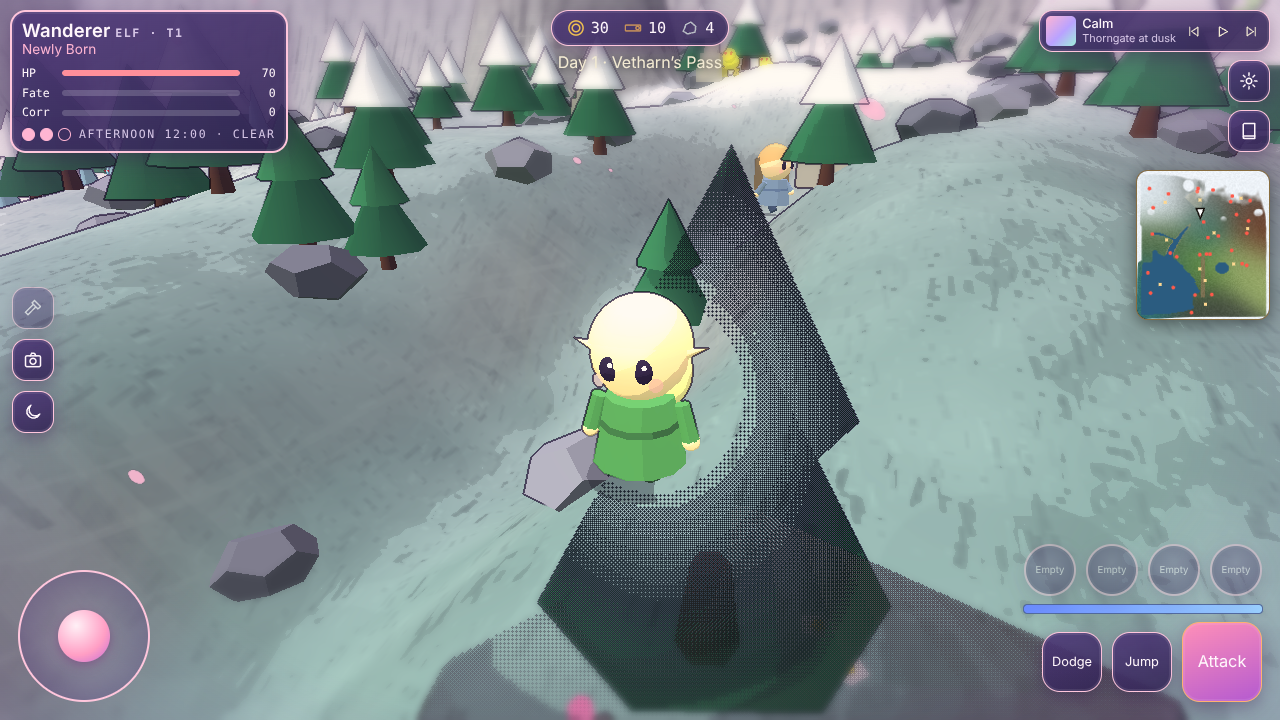
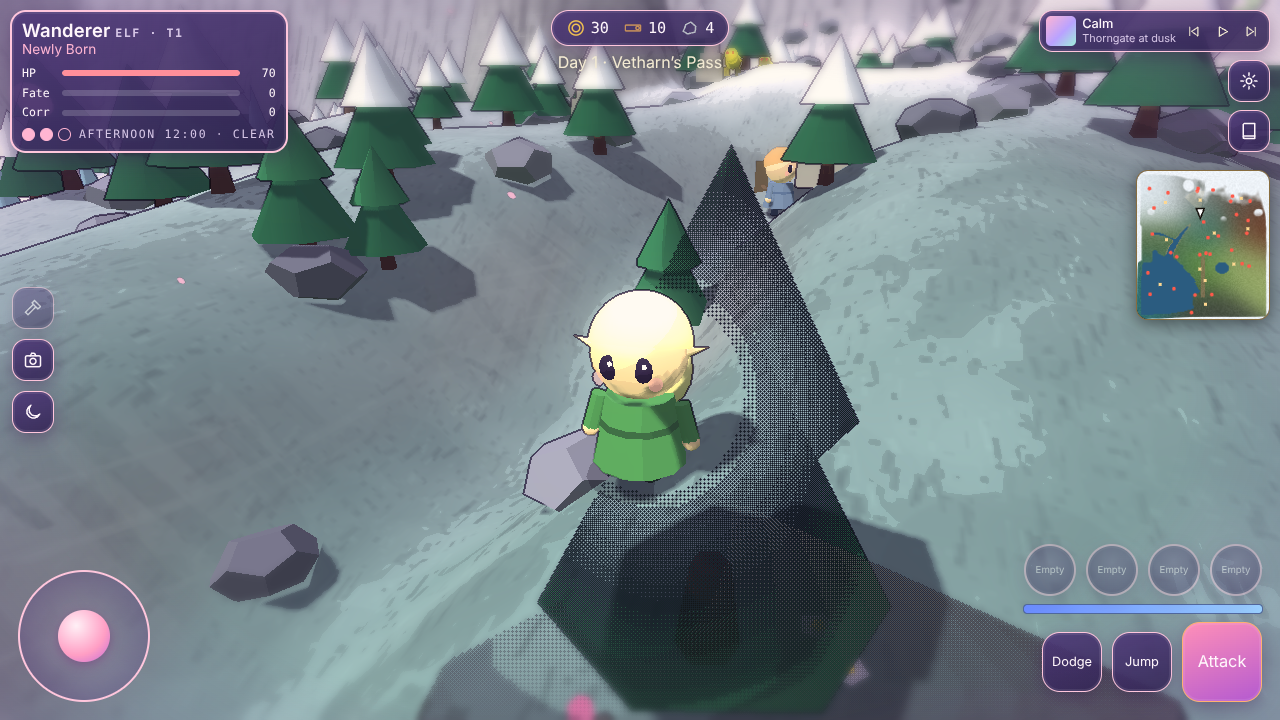
feat(art): soft sun shadows and adaptive resolution for the Spring style
Applies two patterns from the gamedev-skills/awesome-gamedev-agent-skills
three.js skills, adapted to three.js r151:
- threejs-materials-lighting: shadow map, castShadow/receiveShadow, a tight
  orthographic shadow box that follows the player (texel-snapped). Off on
  the low tier; trees and rocks cast only on high.
- threejs-scene-setup: adaptive pixel ratio stepping by 0.25 with a floor,
  cooldown and separate drop/raise thresholds.

Design: ERANDEL_ART_BIBLE.md section 19. Evidence: production/qa/evidence/spring-style/.

Claude-Session: https://claude.ai/code/session_01C2QRsG5r5FsrWkrkJ1Wjtd

diff --git a/src/index.html b/src/index.html
@@ -2345,13 +2345,15 @@ function springInit(){
  const pg=new THREE.BufferGeometry();pg.setAttribute('position',new THREE.BufferAttribute(pos,3));
  SP.petals=new THREE.Points(pg,new THREE.PointsMaterial({map:petalTex(),color:'#ffc4da',size:.32,transparent:true,opacity:.85,depthWrite:false,alphaTest:.1}));SP.petals.frustumCulled=false;scene.add(SP.petals);
  SP.seed=pos.slice();
+ springShadowsInit();
 }
 /** Per-frame spring update: dome colour, clouds, petals. nf = night factor 0..1. */
 function springTick(dt,t,nf){
- const w=W3,SP=w&&w.spring;if(!SP)return;const cp=w.camera.position,night=Math.min(1,nf);
+ adaptiveRes();
+ const w=W3,SP=w&&w.spring;if(!SP)return;springShadowTick(dt);const cp=w.camera.position,night=Math.min(1,nf);
  SP.dome.position.copy(cp);SP.dome.material.uniforms.uH.value.copy(w.scene.fog.color);SP.dome.material.uniforms.uNight.value=night;
  SP.clouds.forEach(o=>{o.a+=o.v*dt;const R=300;o.s.position.set(cp.x+Math.cos(o.a)*R,cp.y+Math.sin(o.e)*R*.6+10,cp.z+Math.sin(o.a)*R);o.s.material.opacity=.85-.6*night;o.s.material.color.setRGB(1-.35*night,1-.38*night,1-.2*night);});
- const P=SP.petals,a=P.geometry.attributes.position.array,s=SP.seed,tg=(S&&w.player)?w.player:{x:cp.x,z:cp.z},by=groundY(tg.x,tg.z);
+ const P=SP.petals,a=P.geometry.attributes.position.array,s=SP.seed,tg=(S&&w.player)?w.player:{x:cp.x,z:cp.z},by=S?groundY(tg.x,tg.z):heightAt(tg.x,tg.z);
  for(let i=0;i<a.length;i+=3){
   const k=i*.37,fx=s[i]+Math.sin(t*.35+k)*2+t*.9,fy=s[i+1]-t*.55,fz=s[i+2]+Math.cos(t*.3+k)*2+t*.4;
   const wr=(v)=>((v%36)+54)%36-18;a[i]=tg.x+wr(fx);a[i+1]=by+2+(((fy%14)+21)%14)-1;a[i+2]=tg.z+wr(fz);
@@ -2389,6 +2391,60 @@ function springComposer(c,w){
  p.uniforms.uNear.value=w.camera.near;p.uniforms.uFar.value=w.camera.far;
  const base=p.render;p.render=function(r,wb,rb){this.uniforms.tDepth.value=rb.depthTexture||null;if(!rb.depthTexture)this.uniforms.uInk.value=0;this.uniforms.uRes.value.set(rb.width,rb.height);return base.apply(this,arguments);};
  c.addPass(p);return p;
+}
+
+/* ----- soft sun shadows near the player (pattern from the threejs-materials-lighting skill:
+ *       renderer.shadowMap + light.castShadow + per-mesh cast/receive, with a tight
+ *       orthographic shadow camera that follows the player) ----- */
+/** Shadow budget per graphics tier: map size and whether instanced trees and rocks cast. */
+const SPRING_SHADOW={low:null,medium:{map:1024,trees:false,span:18},high:{map:2048,trees:true,span:24}};
+function springShadowsInit(){
+ const w=W3,cfg=SPRING_SHADOW[gfxTier()];if(!SPRING||!cfg)return;
+ const r=w.renderer;r.shadowMap.enabled=true;r.shadowMap.type=THREE.PCFSoftShadowMap;
+ const sun=w.sun,sh=sun.shadow,c=sh.camera;sun.castShadow=true;sh.mapSize.set(cfg.map,cfg.map);
+ c.left=c.bottom=-cfg.span;c.right=c.top=cfg.span;c.near=1;c.far=160;c.updateProjectionMatrix();
+ sh.bias=-.0006;sh.normalBias=.04;sh.radius=3;w.scene.add(sun.target);
+ w.terrain.receiveShadow=true;
+ w.spring.shadow={cfg,t:0,trees:new Set(['itrunk','icanopy','icone','irock'].map(k=>GEO[k]).filter(Boolean))};
+ springShadowTag();
+}
+/** Marks new meshes as shadow casters/receivers. Cheap: each mesh is visited once. */
+function springShadowTag(){
+ const s=W3.spring&&W3.spring.shadow;if(!s)return;
+ W3.scene.traverse(o=>{
+  if(!o.isMesh||o.userData.shT||o===W3.terrain||o===W3.water)return;o.userData.shT=1;
+  const m=Array.isArray(o.material)?o.material[0]:o.material;if(!m||m.transparent||m.isMeshBasicMaterial||m.isShaderMaterial||m.alphaTest>0)return;
+  o.receiveShadow=true;
+  if(o.isInstancedMesh)o.castShadow=s.cfg.trees&&s.trees.has(o.geometry);else o.castShadow=true;
+ });
+}
+/** Keeps the sun's shadow box centred on the player. */
+function springShadowTick(dt){
+ const s=W3.spring&&W3.spring.shadow;if(!s)return;
+ const p=(S&&W3.player)?W3.player:{x:14,z:42},y=S?groundY(p.x,p.z):heightAt(p.x,p.z),sun=W3.sun;
+ // snap to shadow texels so edges do not shimmer while walking
+ const q=(s.cfg.span*2)/s.cfg.map,x=Math.round(p.x/q)*q,z=Math.round(p.z/q)*q;
+ sun.position.set(x-24,y+48,z+20);sun.target.position.set(x,y,z);sun.target.updateMatrixWorld();
+ s.t-=dt;if(s.t<=0){s.t=1;springShadowTag();}
+}
+
+/* ----- adaptive resolution (pattern from the threejs-scene-setup skill: measure sustained
+ *       frame time, step the pixel ratio by 0.25 between a floor and the cap, with a cooldown
+ *       and separate drop/raise thresholds so it never oscillates) ----- */
+const ADAPT={floor:.75,step:.25,dropMs:30,raiseMs:19,window:3,cool:6,raiseAfter:3};
+const ADAPT_S={cap:0,ratio:0,acc:0,n:0,cool:3,good:0,last:0};
+function adaptiveRes(){
+ const w=W3,now=performance.now();if(!w||!w.renderer||navigator.webdriver)return;const A=ADAPT_S; // automated browsers run at a few fps: keep their screenshots at full size
+ if(!A.cap){A.cap=w.renderer.getPixelRatio();A.ratio=A.cap;A.last=now;return;}
+ const d=now-A.last;A.last=now;
+ if(d>250||document.hidden)return; // hidden tab or a loading stall: not a measurement
+ A.acc+=d;A.n++;if(A.acc<ADAPT.window*1000)return;
+ const avg=A.acc/A.n;A.acc=0;A.n=0;if(A.cool>0){A.cool-=ADAPT.window;return;}
+ let next=A.ratio;
+ if(avg>ADAPT.dropMs&&A.ratio>ADAPT.floor){next=Math.max(ADAPT.floor,A.ratio-ADAPT.step);A.good=0;}
+ else if(avg<ADAPT.raiseMs&&A.ratio<A.cap){if(++A.good>=ADAPT.raiseAfter){next=Math.min(A.cap,A.ratio+ADAPT.step);A.good=0;}}
+ else A.good=0;
+ if(next!==A.ratio){A.ratio=next;A.cool=ADAPT.cool;w.renderer.setPixelRatio(next);w.renderer.setSize(window.innerWidth,window.innerHeight,false);if(w.composer){w.composer.setPixelRatio(next);w.composer.setSize(window.innerWidth,window.innerHeight);}window.__res=next;}
 }
 const PERF=(()=>{try{return/[?&]perf\b/.test(location.search)?{el:null,n:0,t:0,max:0,last:0,calls:0,tris:0,gpu:''}:null;}catch(e){return null;}})();
 function perfTick(){

diff --git a/src/rendering/spring-style.js b/src/rendering/spring-style.js
@@ -82,13 +82,15 @@ function springInit(){
  const pg=new THREE.BufferGeometry();pg.setAttribute('position',new THREE.BufferAttribute(pos,3));
  SP.petals=new THREE.Points(pg,new THREE.PointsMaterial({map:petalTex(),color:'#ffc4da',size:.32,transparent:true,opacity:.85,depthWrite:false,alphaTest:.1}));SP.petals.frustumCulled=false;scene.add(SP.petals);
  SP.seed=pos.slice();
+ springShadowsInit();
 }
 /** Per-frame spring update: dome colour, clouds, petals. nf = night factor 0..1. */
 function springTick(dt,t,nf){
- const w=W3,SP=w&&w.spring;if(!SP)return;const cp=w.camera.position,night=Math.min(1,nf);
+ adaptiveRes();
+ const w=W3,SP=w&&w.spring;if(!SP)return;springShadowTick(dt);const cp=w.camera.position,night=Math.min(1,nf);
  SP.dome.position.copy(cp);SP.dome.material.uniforms.uH.value.copy(w.scene.fog.color);SP.dome.material.uniforms.uNight.value=night;
  SP.clouds.forEach(o=>{o.a+=o.v*dt;const R=300;o.s.position.set(cp.x+Math.cos(o.a)*R,cp.y+Math.sin(o.e)*R*.6+10,cp.z+Math.sin(o.a)*R);o.s.material.opacity=.85-.6*night;o.s.material.color.setRGB(1-.35*night,1-.38*night,1-.2*night);});
- const P=SP.petals,a=P.geometry.attributes.position.array,s=SP.seed,tg=(S&&w.player)?w.player:{x:cp.x,z:cp.z},by=groundY(tg.x,tg.z);
+ const P=SP.petals,a=P.geometry.attributes.position.array,s=SP.seed,tg=(S&&w.player)?w.player:{x:cp.x,z:cp.z},by=S?groundY(tg.x,tg.z):heightAt(tg.x,tg.z);
  for(let i=0;i<a.length;i+=3){
   const k=i*.37,fx=s[i]+Math.sin(t*.35+k)*2+t*.9,fy=s[i+1]-t*.55,fz=s[i+2]+Math.cos(t*.3+k)*2+t*.4;
   const wr=(v)=>((v%36)+54)%36-18;a[i]=tg.x+wr(fx);a[i+1]=by+2+(((fy%14)+21)%14)-1;a[i+2]=tg.z+wr(fz);
@@ -126,4 +128,58 @@ function springComposer(c,w){
  p.uniforms.uNear.value=w.camera.near;p.uniforms.uFar.value=w.camera.far;
  const base=p.render;p.render=function(r,wb,rb){this.uniforms.tDepth.value=rb.depthTexture||null;if(!rb.depthTexture)this.uniforms.uInk.value=0;this.uniforms.uRes.value.set(rb.width,rb.height);return base.apply(this,arguments);};
  c.addPass(p);return p;
+}
+
+/* ----- soft sun shadows near the player (pattern from the threejs-materials-lighting skill:
+ *       renderer.shadowMap + light.castShadow + per-mesh cast/receive, with a tight
+ *       orthographic shadow camera that follows the player) ----- */
+/** Shadow budget per graphics tier: map size and whether instanced trees and rocks cast. */
+const SPRING_SHADOW={low:null,medium:{map:1024,trees:false,span:18},high:{map:2048,trees:true,span:24}};
+function springShadowsInit(){
+ const w=W3,cfg=SPRING_SHADOW[gfxTier()];if(!SPRING||!cfg)return;
+ const r=w.renderer;r.shadowMap.enabled=true;r.shadowMap.type=THREE.PCFSoftShadowMap;
+ const sun=w.sun,sh=sun.shadow,c=sh.camera;sun.castShadow=true;sh.mapSize.set(cfg.map,cfg.map);
+ c.left=c.bottom=-cfg.span;c.right=c.top=cfg.span;c.near=1;c.far=160;c.updateProjectionMatrix();
+ sh.bias=-.0006;sh.normalBias=.04;sh.radius=3;w.scene.add(sun.target);
+ w.terrain.receiveShadow=true;
+ w.spring.shadow={cfg,t:0,trees:new Set(['itrunk','icanopy','icone','irock'].map(k=>GEO[k]).filter(Boolean))};
+ springShadowTag();
+}
+/** Marks new meshes as shadow casters/receivers. Cheap: each mesh is visited once. */
+function springShadowTag(){
+ const s=W3.spring&&W3.spring.shadow;if(!s)return;
+ W3.scene.traverse(o=>{
+  if(!o.isMesh||o.userData.shT||o===W3.terrain||o===W3.water)return;o.userData.shT=1;
+  const m=Array.isArray(o.material)?o.material[0]:o.material;if(!m||m.transparent||m.isMeshBasicMaterial||m.isShaderMaterial||m.alphaTest>0)return;
+  o.receiveShadow=true;
+  if(o.isInstancedMesh)o.castShadow=s.cfg.trees&&s.trees.has(o.geometry);else o.castShadow=true;
+ });
+}
+/** Keeps the sun's shadow box centred on the player. */
+function springShadowTick(dt){
+ const s=W3.spring&&W3.spring.shadow;if(!s)return;
+ const p=(S&&W3.player)?W3.player:{x:14,z:42},y=S?groundY(p.x,p.z):heightAt(p.x,p.z),sun=W3.sun;
+ // snap to shadow texels so edges do not shimmer while walking
+ const q=(s.cfg.span*2)/s.cfg.map,x=Math.round(p.x/q)*q,z=Math.round(p.z/q)*q;
+ sun.position.set(x-24,y+48,z+20);sun.target.position.set(x,y,z);sun.target.updateMatrixWorld();
+ s.t-=dt;if(s.t<=0){s.t=1;springShadowTag();}
+}
+
+/* ----- adaptive resolution (pattern from the threejs-scene-setup skill: measure sustained
+ *       frame time, step the pixel ratio by 0.25 between a floor and the cap, with a cooldown
+ *       and separate drop/raise thresholds so it never oscillates) ----- */
+const ADAPT={floor:.75,step:.25,dropMs:30,raiseMs:19,window:3,cool:6,raiseAfter:3};
+const ADAPT_S={cap:0,ratio:0,acc:0,n:0,cool:3,good:0,last:0};
+function adaptiveRes(){
+ const w=W3,now=performance.now();if(!w||!w.renderer||navigator.webdriver)return;const A=ADAPT_S; // automated browsers run at a few fps: keep their screenshots at full size
+ if(!A.cap){A.cap=w.renderer.getPixelRatio();A.ratio=A.cap;A.last=now;return;}
+ const d=now-A.last;A.last=now;
+ if(d>250||document.hidden)return; // hidden tab or a loading stall: not a measurement
+ A.acc+=d;A.n++;if(A.acc<ADAPT.window*1000)return;
+ const avg=A.acc/A.n;A.acc=0;A.n=0;if(A.cool>0){A.cool-=ADAPT.window;return;}
+ let next=A.ratio;
+ if(avg>ADAPT.dropMs&&A.ratio>ADAPT.floor){next=Math.max(ADAPT.floor,A.ratio-ADAPT.step);A.good=0;}
+ else if(avg<ADAPT.raiseMs&&A.ratio<A.cap){if(++A.good>=ADAPT.raiseAfter){next=Math.min(A.cap,A.ratio+ADAPT.step);A.good=0;}}
+ else A.good=0;
+ if(next!==A.ratio){A.ratio=next;A.cool=ADAPT.cool;w.renderer.setPixelRatio(next);w.renderer.setSize(window.innerWidth,window.innerHeight,false);if(w.composer){w.composer.setPixelRatio(next);w.composer.setSize(window.innerWidth,window.innerHeight);}window.__res=next;}
 }

diff --git a/ERANDEL_ART_BIBLE.md b/ERANDEL_ART_BIBLE.md
@@ -711,6 +711,13 @@ names or UI from any existing game. Code: `src/rendering/spring-style.js`, `src/
   and turn into pale sparkles at night.
 - **UI**: translucent plum panels, sakura-pink edges, rounded corners, Fredoka and
   Nunito fonts, flower bullets on dialog choices, a round portrait frame.
+- **Shadows**: soft sun shadows (PCF soft) in a box that follows the player and snaps to
+  shadow-map texels so edges do not shimmer. Medium tier: 1024 map, characters and
+  buildings cast. High tier: 2048 map, and trees and rocks cast too. Low tier: off. Pattern
+  from the `threejs-materials-lighting` skill in gamedev-skills/awesome-gamedev-agent-skills.
+- **Adaptive resolution**: the pixel ratio steps down 0.25 (floor 0.75) when frames average
+  over 30 ms for 3 s, and back up after three good windows under 19 ms, with a 6 s
+  cooldown. Pattern from that repo's `threejs-scene-setup` skill.
 - **Switch**: Settings › Style toggles Spring and the classic amber night diorama (§1
   to §18) and reloads the page. `?style=night` or `?style=spring` overrides it.
 
